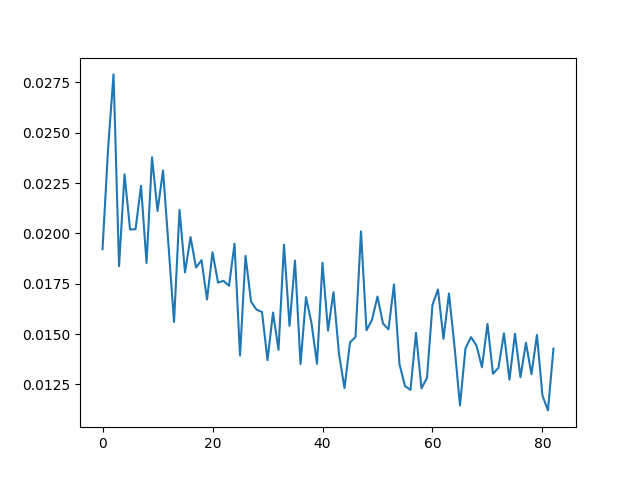
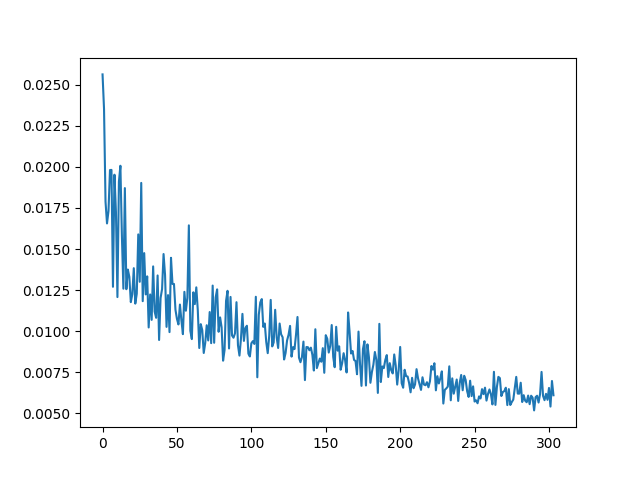
ewc commit 2

diff --git a/main.py b/main.py
@@ -374,8 +374,6 @@ def train_cont_weathers_vanilla(save_name, loss='CE', seed=0):
 
     # print(f'Task splits are {city_splits}')
 
-
-
 def train_cont_cities_ewc(data_root, save_name, loss_type='CE', seed=0, multihead=False):
     torch.manual_seed(seed)
     np.random.seed(seed)
@@ -500,7 +498,141 @@ def train_cont_cities_ewc(data_root, save_name, loss_type='CE', seed=0, multihea
         
         for eval_cnt in range(task_num):            
             acc_mat[t_cnt, eval_cnt]  = eval(model, test_datasets[eval_cnt], 
-                                             verbose=False, multihead=multihead, t_cnt=t_cnt)
+                                             verbose=False, multihead=multihead, t_cnt=eval_cnt)
+
+        np.save(f'{save_path}/{save_name}_acc_mat.npy', acc_mat)
+        
+        with np.printoptions(precision=2):
+            print(acc_mat)
+
+    print(f'Task splits are {city_splits}')
+
+
+def train_cont_cities_er(data_root, save_name, loss_type='CE', seed=0, multihead=False):
+    torch.manual_seed(seed)
+    np.random.seed(seed)
+    random.seed(seed)
+
+    weight_ewc = 5e3
+    task_num = 6
+
+    if not os.path.exists(f'./{save_name}'):
+        os.makedirs(save_name)
+
+    save_path = os.path.join(os.getcwd(), save_name)
+
+    vgg_model = VGGNet(model='vgg19', requires_grad=True)
+
+    if multihead:
+        model = FCN8sMH(pretrained_net=vgg_model, n_class=34, n_tasks=task_num).to(device)
+    else:
+        model = FCN8s(pretrained_net=vgg_model, n_class=34).to(device)
+
+    nepoch = 20
+    bs = 16
+    lr=1e-3
+    save_every = 5
+    eval_every = 10
+    
+
+    transform = transforms.Compose([
+        transforms.Resize((256, 512))
+    ])
+    
+    home_path = os.path.expanduser('~')
+    data_root = os.path.join(home_path, 'data', data_root)
+    label_root = os.path.join(home_path, 'data', 'gtFine')
+
+    # city_splits = get_city_task_splits(data_root, task_num)
+    city_splits = get_city_task_splits(data_root, 18) #one city per task
+
+    print(f'Task splits are {city_splits}')
+
+    if loss_type == 'CE':
+        criterion = torch.nn.CrossEntropyLoss().to(device)
+    elif loss_type == 'focal':
+        criterion = FocalLoss(num_classes=34, gamma=3, alpha=1).to(device)
+
+    acc_mat = np.zeros((task_num, task_num))
+
+    train_datasets, test_datasets = [], []
+
+    for t_cnt in range(task_num):
+        ds_train = CityScapeDatasetWithinCitySplit(data_root=data_root, label_root=label_root, 
+                                    transform=transform, split='train', city_names=city_splits[t_cnt], seed=seed)
+        
+        ds_test = CityScapeDatasetWithinCitySplit(data_root=data_root, label_root=label_root, transform=transform, 
+                                   split='test', city_names=city_splits[t_cnt], seed=seed)
+        
+        train_datasets.append(ds_train)
+        test_datasets.append(ds_test)
+
+    
+    for t_cnt in range(task_num):
+        dl_train = DataLoader(train_datasets[t_cnt], batch_size=bs, shuffle=True)
+        
+        optimizer = torch.optim.Adam(model.parameters(), lr=lr)
+        loss_ = []
+
+        for epoch in range(nepoch):
+            for i, data in enumerate(dl_train):
+                image, mask = data
+                image, mask = image.to(device), mask.squeeze().to(device)           
+
+                optimizer.zero_grad()
+                output = model(image)
+                if multihead:
+                    output = output[t_cnt]
+
+                loss_critic = criterion(output, mask)
+                if t_cnt > 0:    
+                    loss_ewc = compute_ewc_loss(model)
+                else:
+                    loss_ewc = 0
+
+                loss = loss_critic + loss_ewc * weight_ewc
+
+                loss.backward()
+                optimizer.step()
+
+                loss_.append(loss.item())
+
+                if (i+1) % eval_every == 0 or (i+1) == len(dl_train):
+                    __ = eval(model, test_datasets[t_cnt], verbose=True, 
+                              multihead=multihead, t_cnt=t_cnt)
+                    
+                    torch.save(model.state_dict(), f'{save_path}/{save_name}_model_t{t_cnt}.pth')
+
+                if (i+1) % save_every == 0 or (i+1) == len(dl_train):
+                    print('Epoch: {}, Iter: {}, Loss: {}'.format(epoch, i, loss.item()))
+                    
+                    plt.plot(loss_)
+                    plt.savefig(f'{save_path}/{save_name}_training_loss.png')
+                    plt.close()
+
+                    fig, ax = plt.subplots(3, 5, figsize=(20, 10))
+                    #first row: input images second row: ground truth third row: predicted
+                    #title accordingly
+                    for i in range(5):
+                        ax[0, i].imshow(image[i].cpu().detach().permute(1, 2, 0))
+                        ax[0, i].set_title('input')
+
+                        ax[1, i].imshow(mask[i].cpu().detach(), cmap='viridis', vmin=0, vmax=33)
+                        ax[1, i].set_title('ground truth')
+
+                        ax[2, i].imshow(output[i].cpu().detach().argmax(dim=0), cmap='viridis', vmin=0, vmax=33)
+                        ax[2, i].set_title('predicted')
+
+                    plt.savefig(f'{save_path}/{save_name}_training_results.png')
+                    plt.close()
+
+
+
+        register_ewc_params(model, dl_train, loss_type=loss_type, multihead=multihead, t_cnt=t_cnt)
+        
+        for eval_cnt in range(task_num):            
+            acc_mat[t_cnt, eval_cnt]  = eval(model, test_datasets[eval_cnt], 
+                                             verbose=False, multihead=multihead, t_cnt=eval_cnt)
 
         np.save(f'{save_path}/{save_name}_acc_mat.npy', acc_mat)
         
